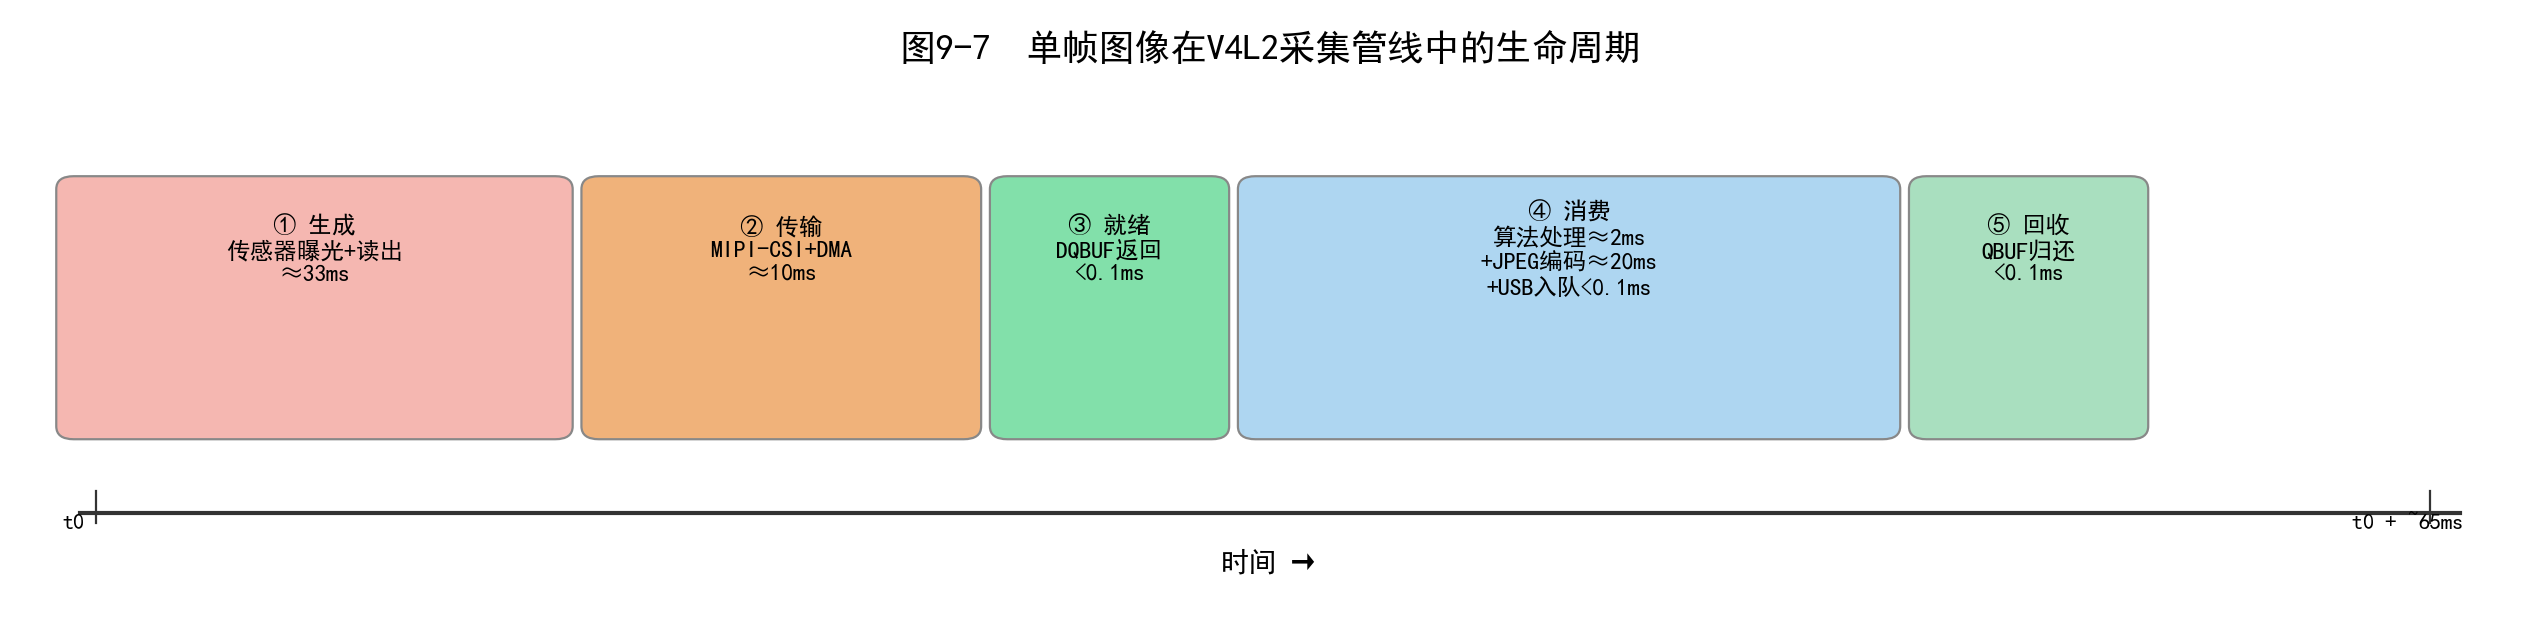
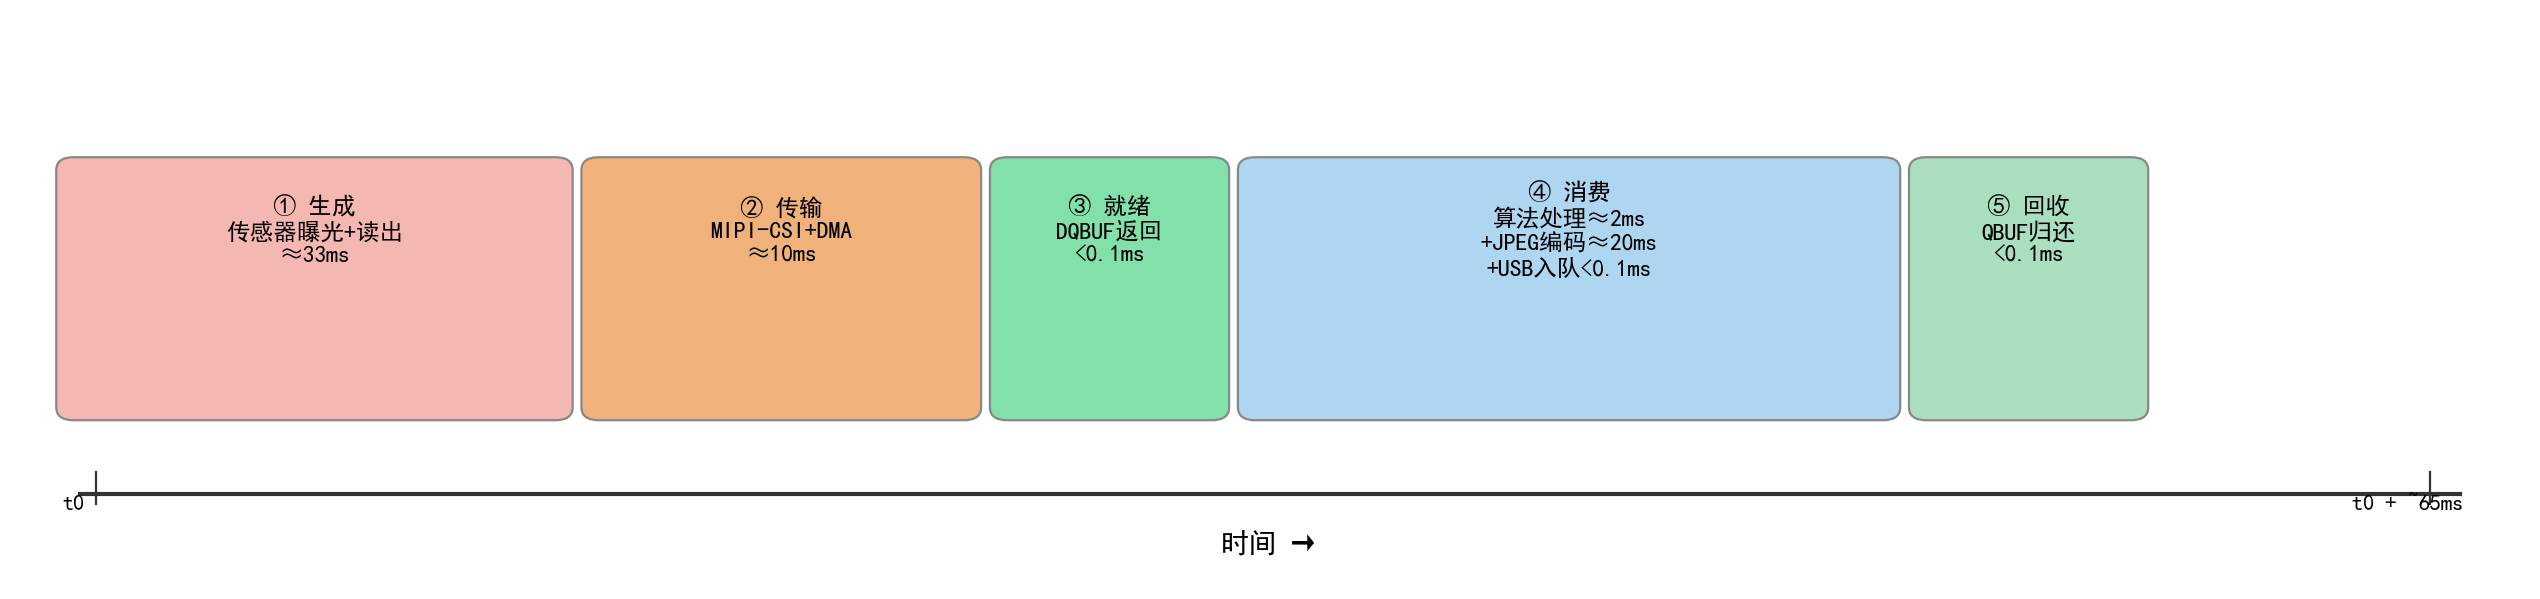
去除所有PNG图片内嵌的图9-X标题，避免与排版软件自动生成的图题重复

diff --git a/tools/generate_figures.py b/tools/generate_figures.py
@@ -65,8 +65,6 @@ def arrow_right(ax, x1, x2, y, color="#555555", lw=1.0):
 # ============================================================
 def fig_9_1():
     fig, (ax_l, ax_r) = plt.subplots(1, 2, figsize=(13, 7.5))
-    fig.suptitle("图9-1  传统嵌入式终端与智能嵌入式系统功能层次对比", fontsize=13, weight="bold", y=0.98)
-
     # 左侧 - 传统MCU终端
     ax_l.set_xlim(0, 10)
     ax_l.set_ylim(0, 12)
@@ -109,8 +107,6 @@ def fig_9_1():
 def fig_9_2():
     fig, ax = plt.subplots(figsize=(16, 5.5))
     ax.set_xlim(-3.2, 16); ax.set_ylim(0, 10.5); ax.axis("off")
-    ax.set_title("图9-2  evt_sem_P4三种信息流示意图", fontsize=13, weight="bold", y=0.96)
-
     # 三条通道
     # 数据流和事件流: 模块从左到右排列，箭头左→右
     # 控制流: 命令从USB-Serial RX（右）进入，向左传递到各模块，箭头右→左
@@ -159,8 +155,6 @@ def fig_9_2():
 def fig_9_3():
     fig, ax = plt.subplots(figsize=(15, 6.5))
     ax.set_xlim(-1, 17); ax.set_ylim(-0.5, 9.5); ax.axis("off")
-    ax.set_title("图9-3  evt_sem_P4系统功能划分与外部接口框图", fontsize=13, weight="bold", y=0.97)
-
     # 中央虚线框
     sys_r = FancyBboxPatch((1.5, 0.8), 13, 7.8, boxstyle="round,pad=0.25",
                            facecolor="#EBF5FB", edgecolor="#1A5276", linewidth=1.2, linestyle="--", zorder=0)
@@ -206,8 +200,6 @@ def fig_9_3():
 def fig_9_4():
     fig, ax = plt.subplots(figsize=(16, 6.5))
     ax.set_xlim(-1, 18); ax.set_ylim(0, 10.5); ax.axis("off")
-    ax.set_title("图9-4  ESP32-P4高速外设带宽与数据流示意图", fontsize=13, weight="bold", y=0.97)
-
     # 传感器 — 左侧
     box(ax, 0.5, 3.8, 2.8, 1.6, "OV5645\nCMOS传感器", color="#D5F5E3", fontsize=9, bold=True)
     # 带宽标注放在传感器下方
@@ -254,8 +246,6 @@ def fig_9_4():
 def fig_9_5():
     fig, ax = plt.subplots(figsize=(10, 13))
     ax.set_xlim(0, 12); ax.set_ylim(0, 24); ax.axis("off")
-    ax.set_title("图9-5  evt_sem_P4固件启动流程", fontsize=13, weight="bold", y=0.99)
-
     y = 22.5
     mid_x = 6.0
     BOX_H = 0.8  # 模块框高度
@@ -329,8 +319,6 @@ def fig_9_6():
     """组件依赖关系 — 简化版：层间粗箭头 + 层内并列，去除蛛网线"""
     fig, ax = plt.subplots(figsize=(14, 7))
     ax.set_xlim(0, 16); ax.set_ylim(0, 11); ax.axis("off")
-    ax.set_title("图9-6  evt_sem_P4组件依赖关系图（↓ 箭头指向被依赖层）", fontsize=12, weight="bold", y=0.98)
-
     # 6层定义
     layers = [
         ("L0: 板级支持", 0.8, ["bsp"], "#D5F5E3"),
@@ -404,8 +392,6 @@ def fig_9_6():
 def fig_9_7():
     fig, ax = plt.subplots(figsize=(16, 3.5))
     ax.set_xlim(0, 17); ax.set_ylim(0, 5); ax.axis("off")
-    ax.set_title("图9-7  单帧图像在V4L2采集管线中的生命周期", fontsize=13, weight="bold", y=0.95)
-
     phases = [
         ("① 生成\n传感器曝光+读出\n≈33ms", 0.3, 3.3, "#F5B7B1"),
         ("② 传输\nMIPI-CSI+DMA\n≈10ms", 3.9, 2.5, "#F0B27A"),
@@ -436,8 +422,6 @@ def fig_9_7():
 def fig_9_8():
     fig, ax = plt.subplots(figsize=(17, 5))
     ax.set_xlim(0, 18.5); ax.set_ylim(0, 7); ax.axis("off")
-    ax.set_title("图9-8  evt_sem_P4数据通路各阶段过载处理策略", fontsize=13, weight="bold", y=0.96)
-
     stages = [
         ("① 传感器\n输出", 0.5, "#D5F5E3", "无过载\n固定帧率"),
         ("② V4L2 DMA\n缓冲（×6）", 3.2, "#ABEBC6", "丢帧\n6缓冲全满\n时驱动丢弃"),
